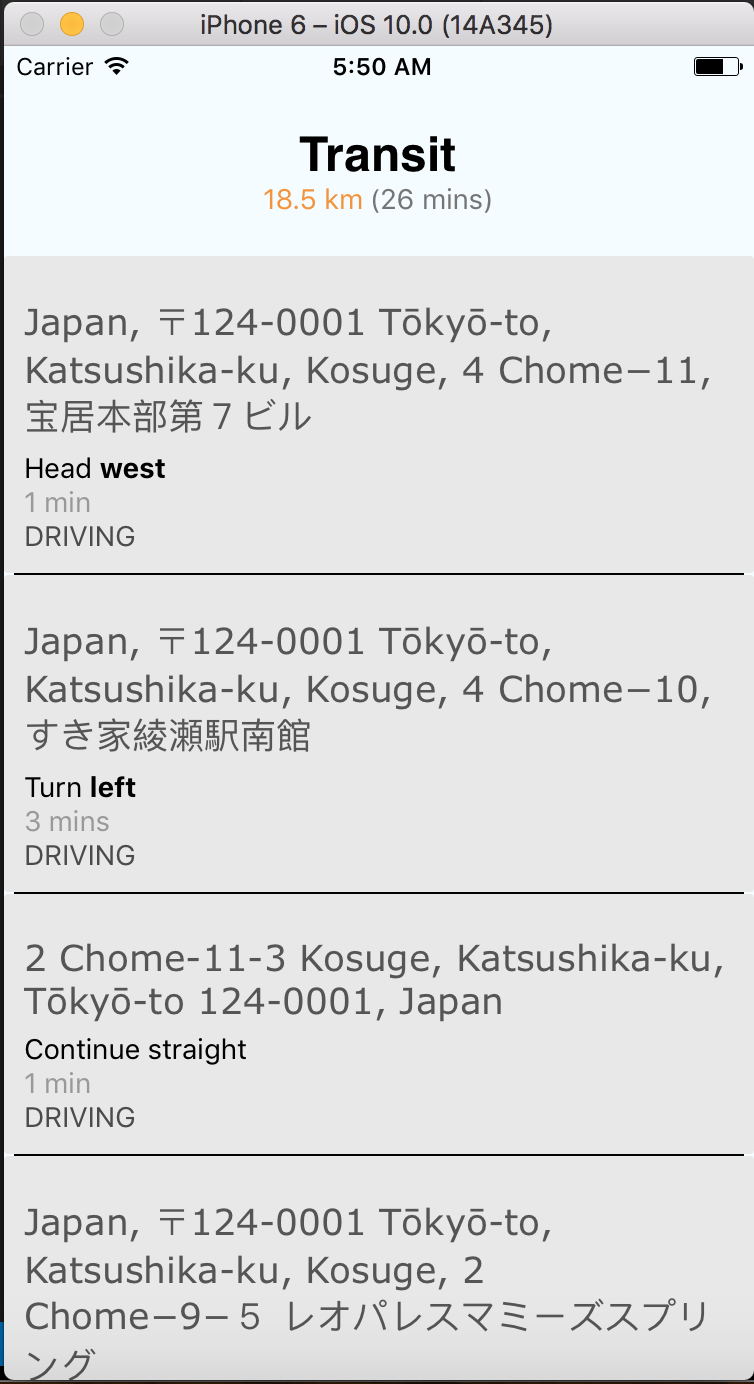
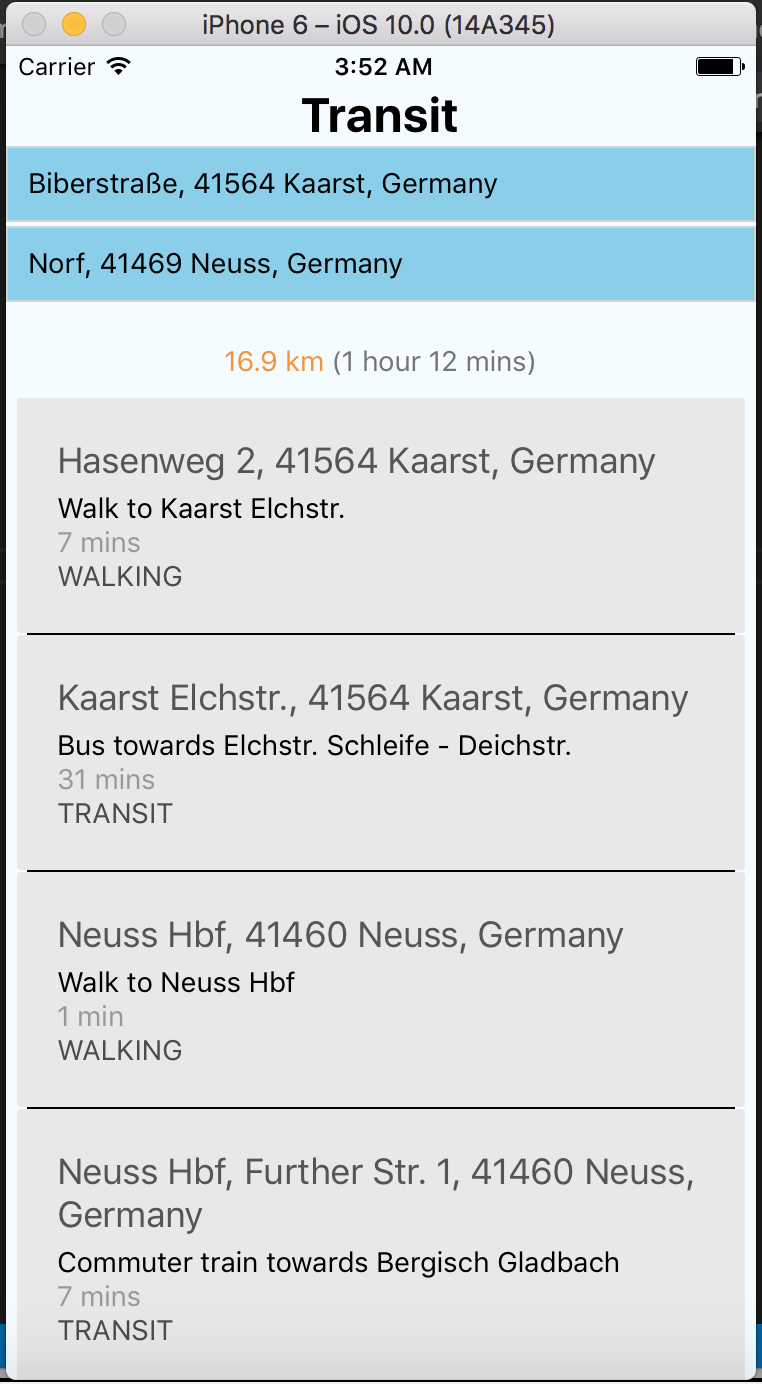
Added new output screen

diff --git a/App.js b/App.js
@@ -9,11 +9,8 @@ const MODE = 'transit';
 const API_KEY = CONSTANT.API_KEY;
 const defaultErrorMessage = 'Something went wrong...';
 
-let source = 'Tokyo Station, 1 Chome Marunouchi, Chiyoda, Tokyo, Japan',
-    destination = '（株）ＢＪＩＴ, Japan, 〒105-0014 Tokyo, Minato, Shiba, 5 Chome−1−13';
-
-// source = 'Biberstraße, 41564 Kaarst, Germany';
-// destination = 'Norf, 41469 Neuss, Germany';
+let source = 'Biberstraße, 41564 Kaarst, Germany',
+    destination = 'Norf, 41469 Neuss, Germany';
 
 export default class App extends React.Component {
     constructor(props) {
@@ -285,7 +282,7 @@ const styles = StyleSheet.create({
       paddingTop: 20,
       borderRadius: 2,
       backgroundColor: '#e8e8e8',
-      padding: 10,
+      padding: 20,
     },
     name: {
       fontSize: 18,
